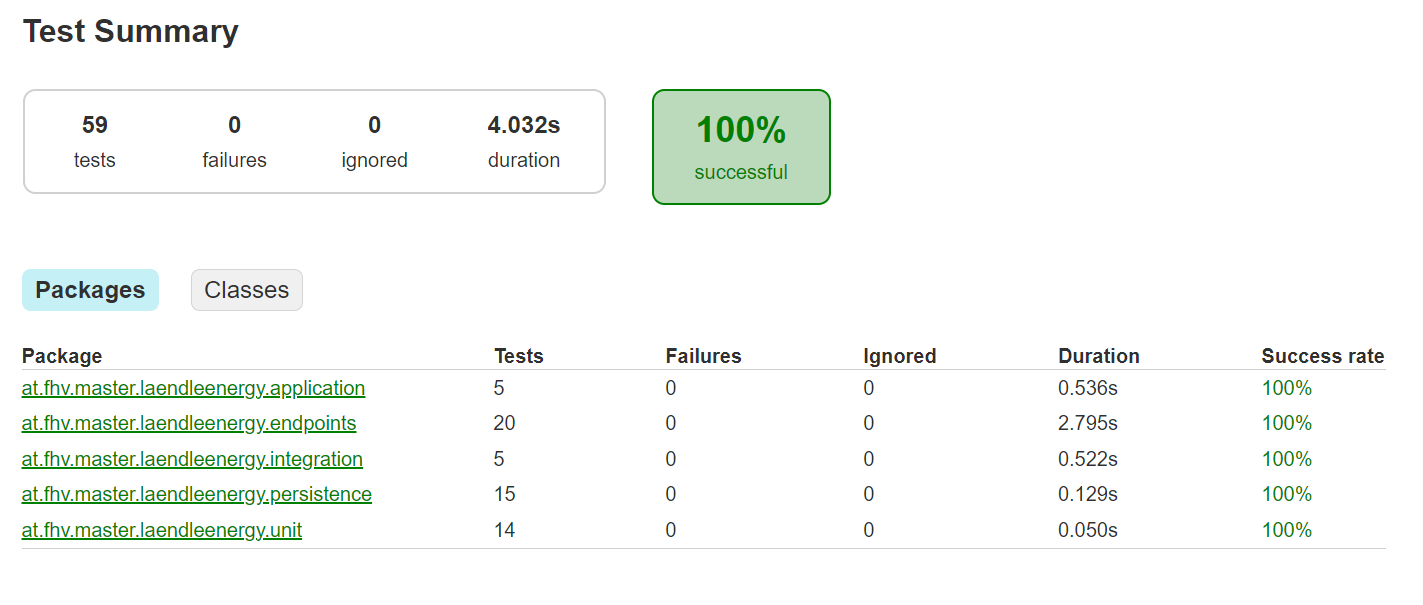
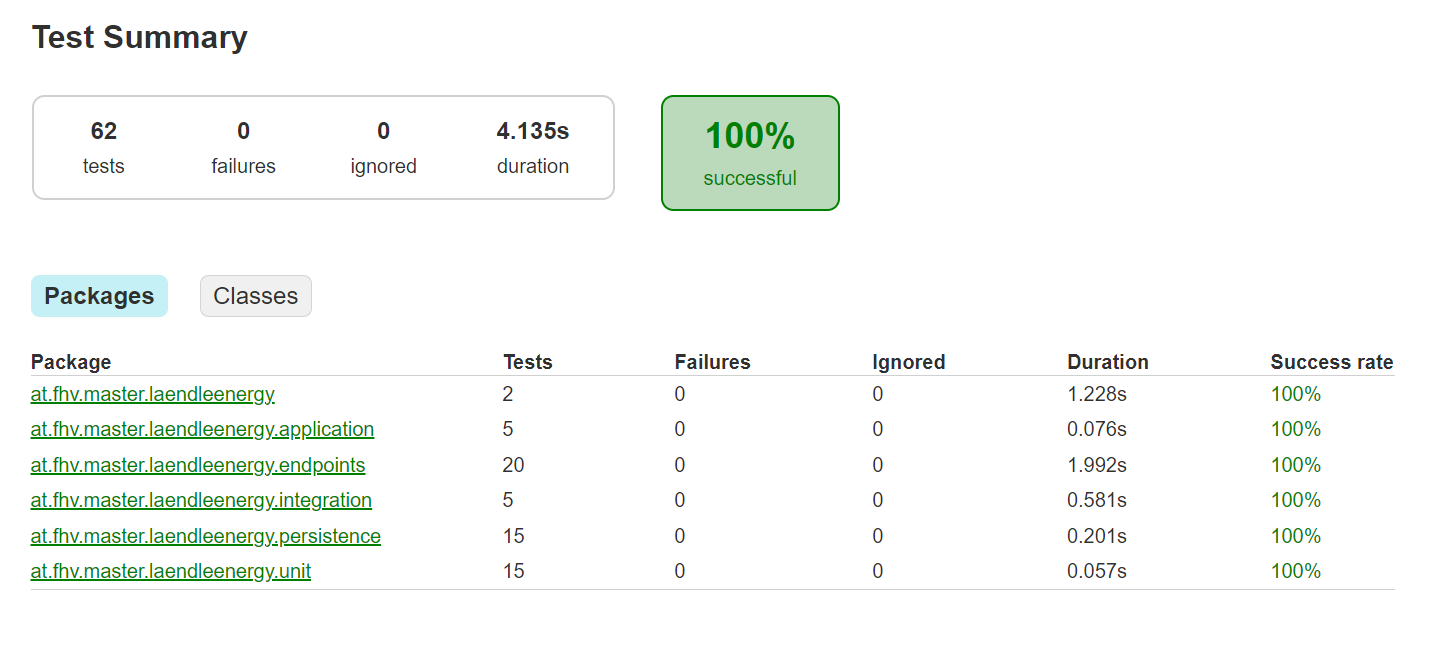
updated test reports for household management

diff --git a/index.md b/index.md
@@ -361,7 +361,7 @@ In Figure 9 on the other hand, the Jacoco report of the Accountmanagement servic
 ![Jacoco Report - Accountmanagement](/images/jacoco-report_accountmanagement.png) *Figure 9: Jacoco Report - Accountmanagement*
 
 #### 2.4.2 Householdmanagement
-In Figure 10 the testing report of the Householdmanagement service is shown. For this service, 59 tests have been written.
+In Figure 10 the testing report of the Householdmanagement service is shown. For this service, 62 tests have been written.
 ![Testing Report - Householdmanagement](/images/test-summary_householdmanagement.png) *Figure 10: Testing Report - Householdmanagement*
 
 Figure 10 illustrates the code coverage achieved by those tests.
